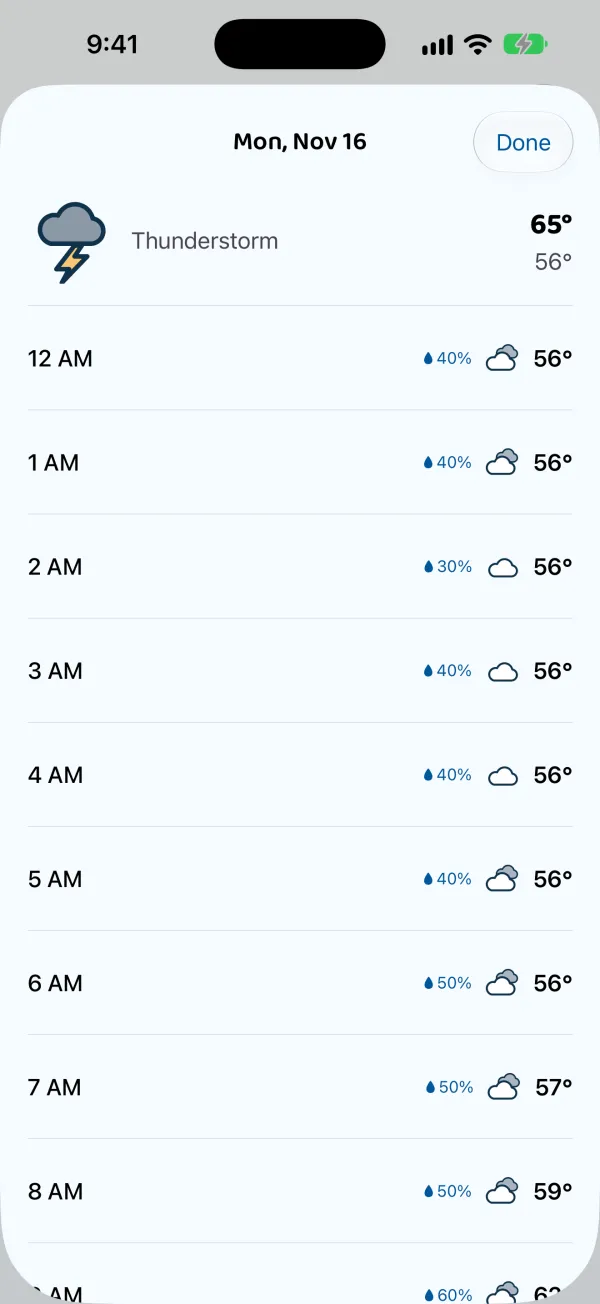
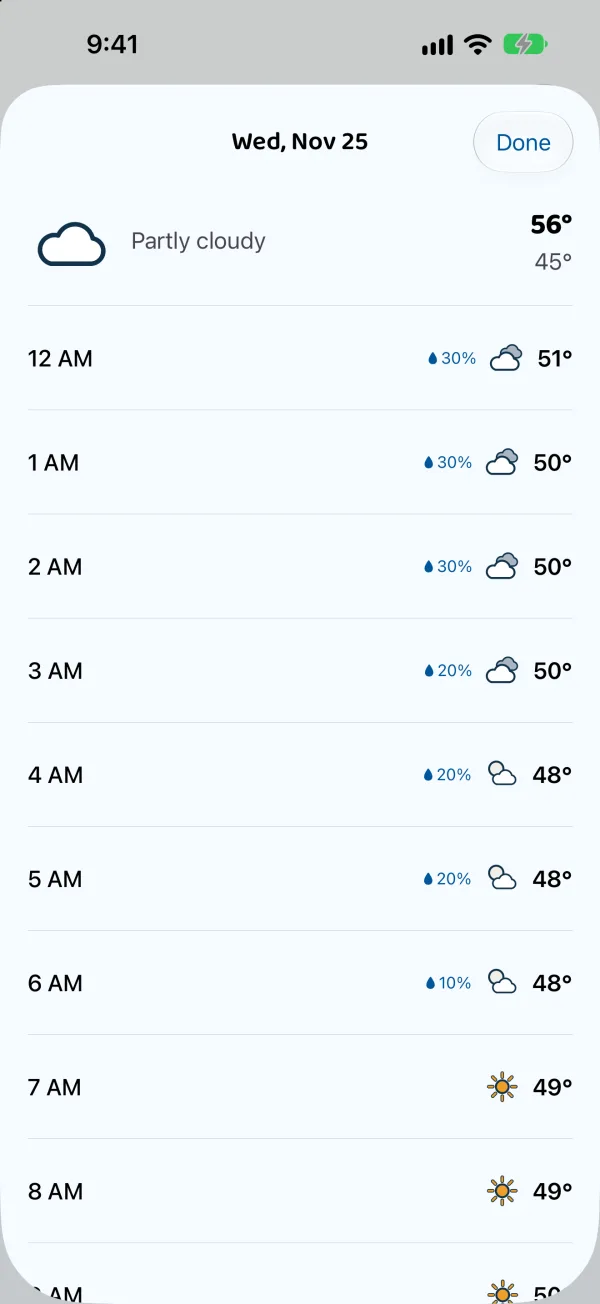
Home and guides: fresh screenshots, the second-option example and Follow my location
The screenshots were from before the walk card's 11-16 change (tomorrow
only at night) and one showed "No radar here". The new ones are from the
1.0.10 App Store build with live weather: Tokyo, Rome before dawn, Alice
Springs, Irkutsk and Kanazawa. The home page's second option now comes
after the first ("2 to 4 PM", then "Or 6 to 8 PM."), as the app shows
it, and the home and support pages mention Follow my location.

diff --git a/index.html b/index.html
@@ -89,7 +89,7 @@
           </div>
           <div class="hero-phone">
             <div class="phone">
-              <img src="/src/assets/capetown.webp" width="600" height="1304" alt="Sunny and Misty in Cape Town at 74°F with hot pavement. The walk card says the best walk times are 6 to 8 PM, or tomorrow 7 to 10 AM, because the pavement is about 136°F now." />
+              <img src="/src/assets/tokyo.webp" width="600" height="1304" alt="Sunny and Misty in the sun on a clear 63°F day in Tokyo. The walk card says now is a great time, with a note that the air is not great for older and flat-faced dogs." />
             </div>
           </div>
         </div>
@@ -102,14 +102,14 @@
             <h2>Sunny picks the time, and a second one if you're busy</h2>
             <p>Sunny looks through the rest of the day, or after dark through tomorrow, and finds the spells that are good for a walk: dry, comfortable, in daylight, with clean enough air and pavement that's safe for paws. <a href="/best-time-to-walk">When is the best time to walk a dog?</a></p>
             <ul class="checks">
-              <li><strong>When, and for how long.</strong> "6 to 8 PM", not just a single hour, so you can fit it around your day.</li>
-              <li><strong>A second option.</strong> Can't make it then? "Or 5 to 8 PM."</li>
-              <li><strong>Why it's later.</strong> "The rain's gone by then." "Cooler by then." Or, on the worst days, "Paw check: about 136° now. Dangerously hot."</li>
+              <li><strong>When, and for how long.</strong> "2 to 4 PM", not just a single hour, so you can fit it around your day.</li>
+              <li><strong>A second option.</strong> Can't make it then? "Or 6 to 8 PM."</li>
+              <li><strong>Why it's later.</strong> "The rain's gone by then." "Cooler by then." Or, on the worst days, "Paw check: about 139° now. Dangerously hot."</li>
               <li><strong>Potty breaks only.</strong> When storms, gales, smoke or extreme heat or cold make a proper walk a bad idea, Sunny says so.</li>
             </ul>
           </div>
           <figure class="split-phone">
-            <img src="/src/assets/nairobi.webp" width="600" height="1304" alt="A thunderstorm in Nairobi. Misty hides behind Sunny, and the walk card says tomorrow 8 to 10 AM, thunderstorms, keep pets inside." loading="lazy" />
+            <img src="/src/assets/rome-night.webp" width="600" height="1304" alt="Before dawn in Rome, under the moon. The walk card picks 1 to 5 PM, after the morning rain shown in the chart below." loading="lazy" />
           </figure>
         </div>
       </section>
@@ -129,7 +129,7 @@
             </dl>
           </div>
           <figure class="split-phone">
-            <img src="/src/assets/capetown-tiles.webp" width="600" height="1304" alt="Today's tiles in Cape Town: feels like 74°F mild, wind 12 mph with a windsock, Fluff Factor 48%, Paw Check about 136°F dangerously hot, air quality 68 moderate, daylight and Misty's View." loading="lazy" />
+            <img src="/src/assets/alice-springs-tiles.webp" width="600" height="1304" alt="Today's tiles in Alice Springs: feels like 86°F warm, wind 17 mph with a windsock, Fluff Factor 36%, Paw Check about 139°F dangerously hot, air quality 23 good, daylight and Misty's View." loading="lazy" />
           </figure>
         </div>
       </section>
@@ -150,16 +150,16 @@
           </div>
           <div class="moods">
             <figure>
-              <img src="/src/assets/reykjavik.webp" width="600" height="1304" alt="Moderate snow in Reykjavík at 31°F. Sunny and Misty wear scarves: snow zoomies, then straight back to the blanket." loading="lazy" />
-              <figcaption>"Snow zoomies, then straight back to the blanket."</figcaption>
+              <img src="/src/assets/irkutsk.webp" width="600" height="1304" alt="A frosty, overcast 27°F in Irkutsk. Sunny and Misty wear scarves: coat weather for small dogs today." loading="lazy" />
+              <figcaption>"Coat weather for small dogs today."</figcaption>
             </figure>
             <figure>
-              <img src="/src/assets/night.webp" width="600" height="1304" alt="A clear night in San Francisco at 54°F under a crescent moon: Sunny and Misty are curled up asleep." loading="lazy" />
-              <figcaption>"Sunny and Misty are curled up asleep."</figcaption>
+              <img src="/src/assets/kanazawa.webp" width="600" height="1304" alt="Drizzle in Kanazawa at 50°F. Sunny and Misty share an umbrella: wet paws ahead, keep a towel by the door." loading="lazy" />
+              <figcaption>"Wet paws ahead. Keep a towel by the door."</figcaption>
             </figure>
             <figure>
-              <img src="/src/assets/copenhagen.webp" width="600" height="1304" alt="A mainly clear day in Copenhagen at 46°F: Misty has found the one sunny spot on the floor." loading="lazy" />
-              <figcaption>"Misty has found the one sunny spot on the floor."</figcaption>
+              <img src="/src/assets/alice-springs.webp" width="600" height="1304" alt="A clear 87°F day in Alice Springs. Sunny wears sunglasses: too hot underfoot, short trips on the grass. The walk card says it's not a good day for walkies, with the pavement at about 139°F." loading="lazy" />
+              <figcaption>"Too hot underfoot. Short trips on the grass."</figcaption>
             </figure>
           </div>
           <p class="section-note">On the right days the pets dress up too: bats and a witch's hat for Halloween, autumn leaves and a pie for Thanksgiving.</p>
@@ -185,7 +185,7 @@
             </div>
             <div class="feature">
               <h3>All your places</h3>
-              <p>Use your current location or add as many cities as you like, each shown in its own time zone.</p>
+              <p>Use your current location or add as many cities as you like, each shown in its own time zone. Turn on Follow my location and the reminders follow you when you travel.</p>
             </div>
             <div class="feature">
               <h3>Works offline</h3>
@@ -198,11 +198,11 @@
           </div>
           <div class="screens">
             <figure>
-              <img src="/src/assets/rome-radar.webp" width="600" height="1304" alt="The animated rain radar over Rome, with the rest of the week below" loading="lazy" />
+              <img src="/src/assets/kanazawa-radar.webp" width="600" height="1304" alt="The animated rain radar over Kanazawa, Japan, with the rest of the week below" loading="lazy" />
               <figcaption>Radar and the week ahead</figcaption>
             </figure>
             <figure>
-              <img src="/src/assets/day-detail.webp" width="600" height="1304" alt="A stormy Monday hour by hour, with the chance of rain for each hour" loading="lazy" />
+              <img src="/src/assets/day-detail.webp" width="600" height="1304" alt="A partly cloudy Wednesday hour by hour, with the chance of rain for each hour" loading="lazy" />
               <figcaption>Every hour of the day</figcaption>
             </figure>
           </div>

diff --git a/paw-safety/index.html b/paw-safety/index.html
@@ -116,8 +116,8 @@
 
       <h2>How Sunny &amp; Misty helps</h2>
       <figure class="screenshot">
-        <img src="/src/assets/capetown-tiles.webp" width="600" height="1304" alt="Today's tiles in Cape Town, with Paw Check showing about 136°F, dangerously hot, on a 74°F day." loading="lazy" />
-        <figcaption>A 74°F day in Cape Town, with the pavement at about 136°F.</figcaption>
+        <img src="/src/assets/alice-springs-tiles.webp" width="600" height="1304" alt="Today's tiles in Alice Springs, with Paw Check showing about 139°F, dangerously hot, on an 87°F morning." loading="lazy" />
+        <figcaption>An 87°F morning in Alice Springs, with the pavement at about 139°F.</figcaption>
       </figure>
       <p>Sunny &amp; Misty is a free weather app for iPhone, iPad and Android. Its <strong>Paw Check</strong> estimates the temperature of dark pavement in direct sun, hour by hour, from the air temperature and how strong the sun is. It follows the pavement as it warms through the morning and cools in the evening. Five paws tell you what it means:</p>
 
@@ -136,7 +136,7 @@
         </tbody>
       </table>
 
-      <p>The walk card uses the same numbers. It never suggests an hour when the pavement is getting hot, and on a scorching afternoon it points you to the evening or the next morning instead: "Paw check: about 136° now. Dangerously hot."</p>
+      <p>The walk card uses the same numbers. It never suggests an hour when the pavement is getting hot, and on a scorching afternoon it points you to the evening or the next morning instead: "Paw check: about 139° now. Dangerously hot."</p>
 
       <div class="stores">
         <a class="store" href="https://play.google.com/store/apps/details?id=com.fangjet.weather">

diff --git a/support/index.html b/support/index.html
@@ -49,6 +49,9 @@
       <h3>When do notifications arrive?</h3>
       <p>There are two, and both are optional: a morning briefing at 8:30 and a nudge at the best time for a walk. To choose which you get, open the app's Settings and tap Notifications. The walk nudge needs "I have a dog" switched on.</p>
 
+      <h3>Can the notifications follow me when I travel?</h3>
+      <p>Yes. Open the app's Settings, tap Notifications and turn on Follow my location. When you've moved a good distance, your current location, the morning briefing and the walk nudge move with you, even when the app is closed. It needs your current location saved in the app and location access set to Always (on Android, Allow all the time). The location is only used for the weather.</p>
+
       <h3>How is the best walk time chosen?</h3>
       <p>Sunny looks through the rest of the day for daylight hours that are dry and comfortable, with clean enough air and pavement that's safe for paws. The card shows the first good spell ("2 to 4 PM"), the next one as a second option ("Or 6 to 8 PM.") and, when now isn't the time, why ("The rain's gone by then."). With no good hours left today it says so ("No more walkies today"), and after dark it gives tomorrow's time instead ("Tomorrow 7 to 10 AM"). If you don't have a dog, switch off "I have a dog" in Settings to hide it. Our guide to <a href="/best-time-to-walk">the best time to walk your dog</a> has more.</p>
 

diff --git a/best-time-to-walk/index.html b/best-time-to-walk/index.html
@@ -115,8 +115,8 @@
 
       <h2>How Sunny &amp; Misty picks the time</h2>
       <figure class="screenshot">
-        <img src="/src/assets/capetown.webp" width="600" height="1304" alt="Sunny and Misty in Cape Town at 74°F. The walk card suggests 6 to 8 PM because the pavement is about 136°F now." loading="lazy" />
-        <figcaption>Too hot underfoot now, so Sunny suggests the evening.</figcaption>
+        <img src="/src/assets/rome-night.webp" width="600" height="1304" alt="Before dawn in Rome. The walk card picks 1 to 5 PM, and the chart shows rain likely through the morning." loading="lazy" />
+        <figcaption>Rain through the morning, so Sunny picks the afternoon.</figcaption>
       </figure>
       <p>Sunny &amp; Misty is a free weather app for iPhone, iPad and Android. Its walk card does all of the above for you: it checks the rest of the day and shows the best time for a walk, and a second option if you can't go then. After dark, it looks ahead to tomorrow. When now isn't the time, it says why: "Cooler by then." or "The rain's gone by then."</p>
       <p>An hour counts as a good one for a walk when:</p>
